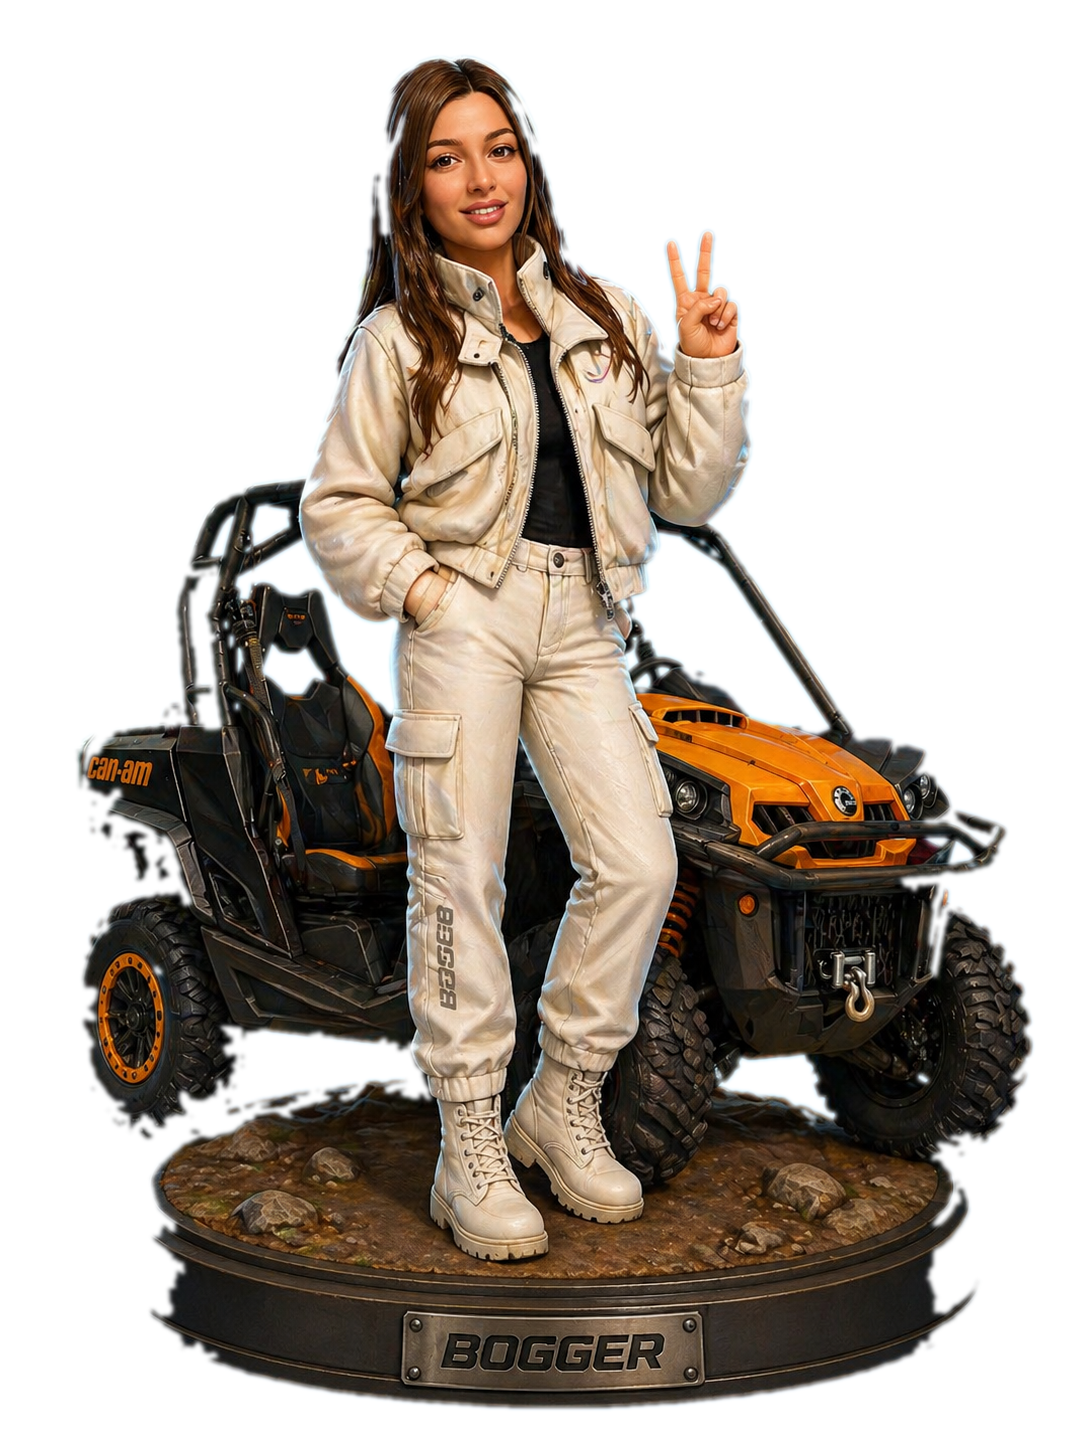
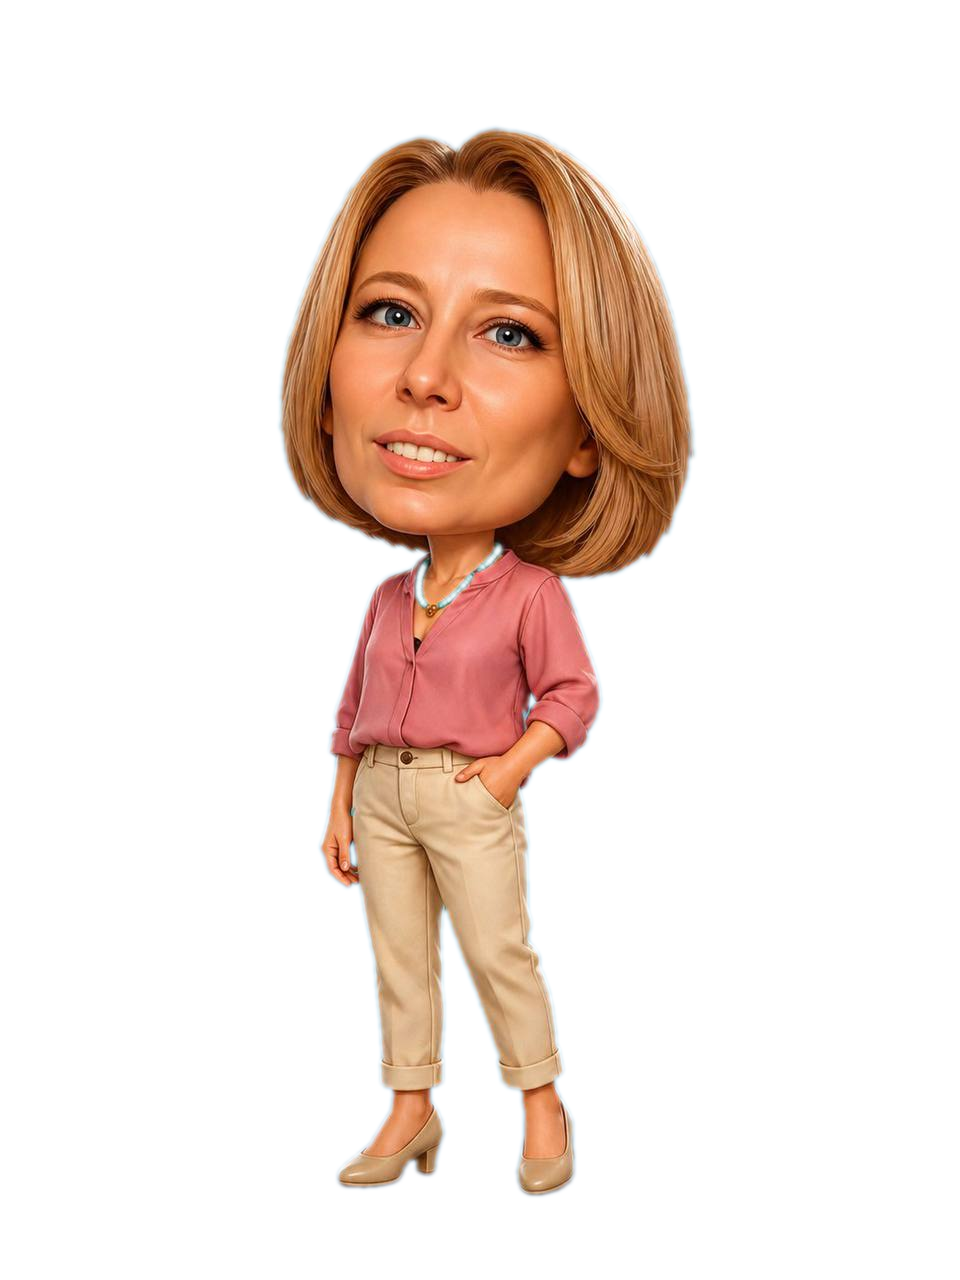
Replace characters with Sasha, update compliments

diff --git a/src/entities/Player.js b/src/entities/Player.js
@@ -1,7 +1,7 @@
 // FILE: src/entities/Player.js
 // VERSION: 1.0.0
 // START_MODULE_CONTRACT:
-// PURPOSE: Игрок — Роман в багги. Управляет физическим спрайтом, прыжком и
+// PURPOSE: Игрок — Саша в багги. Управляет физическим спрайтом, прыжком и
 //          реакцией на столкновение с препятствием (bounce без game over).
 // SCOPE: Создание physics-спрайта, прыжок, определение касания земли, отскок.
 // INPUT: Ссылка на сцену, координаты спавна.

diff --git a/src/constants.js b/src/constants.js
@@ -58,9 +58,9 @@
   // START_BLOCK_ROULETTE_CONFIG
   var ROULETTE_SPINS = 3;
   var COMPLIMENTS = [
-    'Рома, ты КРУТОЙ 😎',
-    'Рома — ты офигенный 🔥',
-    'Рома, ты секси 😏'
+    'Саша, ты КРУТОЙ 😎',
+    'Саша — ты офигенный 🔥',
+    'Саша, ты секси 😏'
   ];
   // END_BLOCK_ROULETTE_CONFIG
 
